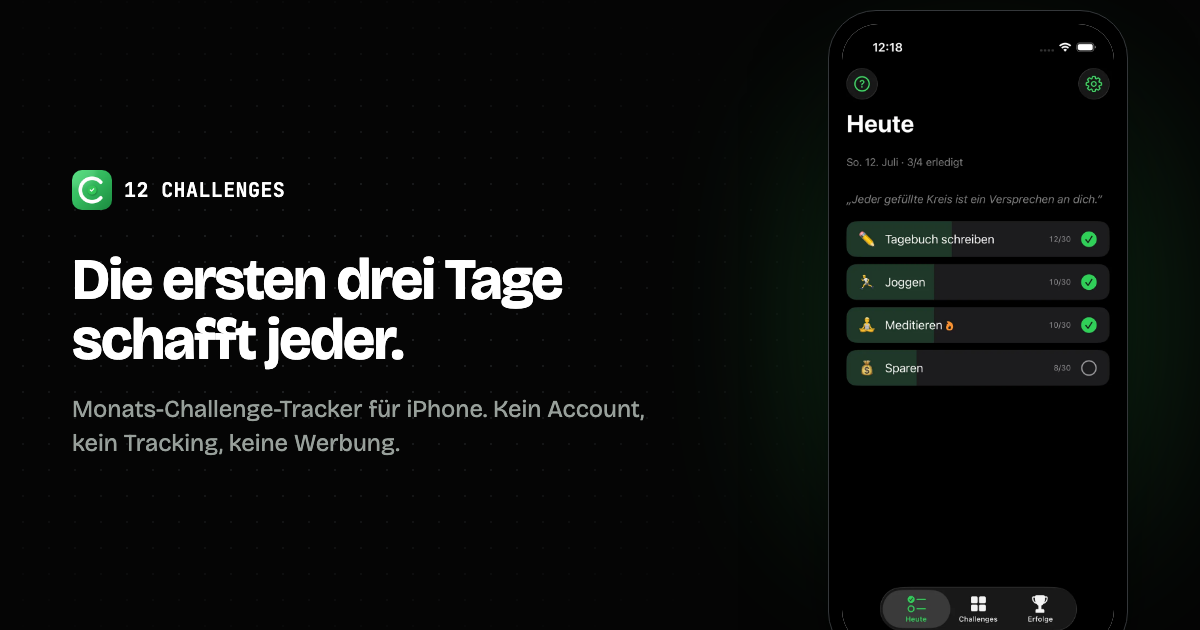
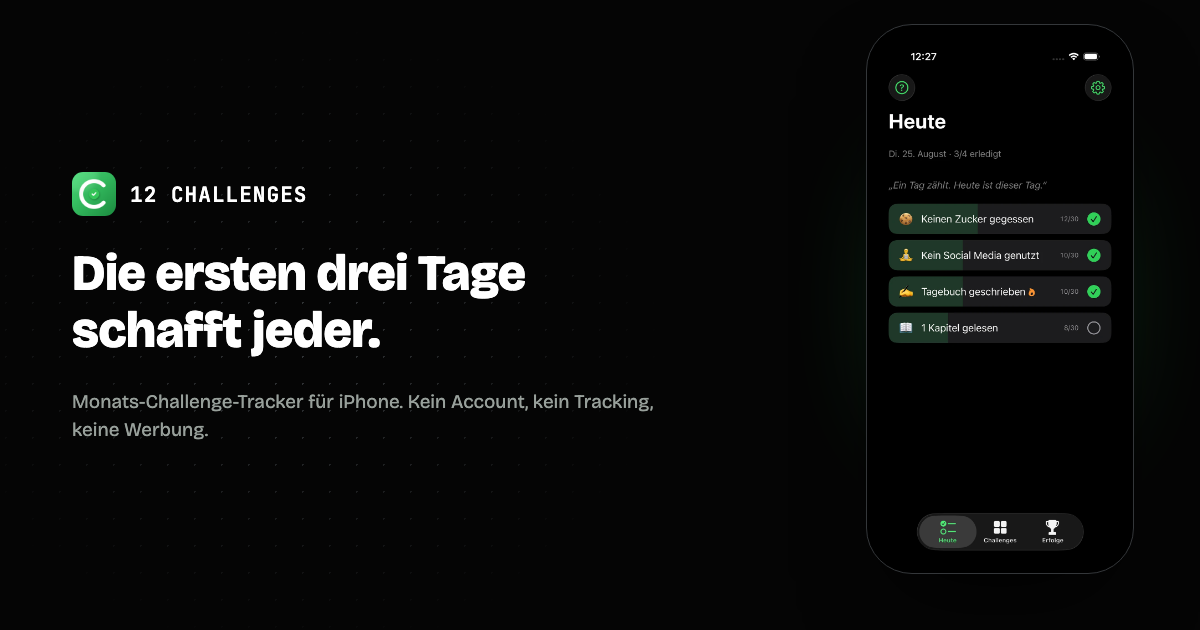
fix: alle vier OG-Bilder (DE/EN/ES/FR) einheitlich neu generiert
DE/EN liefen bisher noch mit der alten, per Hand gebauten Fake-UI und
bluteten an den Kanten. Jetzt alle vier ueber dasselbe Skript mit dem
jeweils aktuellen echten screenshot-heute-*.webp gerendert, gleiche
Groesse/Abstaende, gleicher Glow. Nebenbei zeigen DE/EN jetzt aktuelle
App-Inhalte statt der alten Challenge-Beispiele.

diff --git a/scripts/og-image/generate.py b/scripts/og-image/generate.py
@@ -17,6 +17,16 @@ ASSETS_DIR = REPO_ROOT / "assets"
 CHROME = "/Applications/Google Chrome.app/Contents/MacOS/Google Chrome"
 
 CONTENT = {
+    "de": dict(
+        HEADLINE="Die ersten drei Tage schafft jeder.",
+        SUBTEXT="Monats-Challenge-Tracker für iPhone. Kein Account, kein Tracking, keine Werbung.",
+        SCREENSHOT="screenshot-heute-de.webp",
+    ),
+    "en": dict(
+        HEADLINE="Everyone makes it three days.",
+        SUBTEXT="Monthly challenge tracker for iPhone. No account, no tracking, no ads.",
+        SCREENSHOT="screenshot-heute-en.webp",
+    ),
     "es": dict(
         HEADLINE="Los primeros tres días los aguanta cualquiera.",
         SUBTEXT="Seguimiento de challenges mensuales para iPhone. Sin cuenta, sin tracking, sin anuncios.",
@@ -27,8 +37,6 @@ CONTENT = {
         SUBTEXT="Suivi de challenges mensuels pour iPhone. Sans compte, sans tracking, sans pub.",
         SCREENSHOT="screenshot-heute-fr.webp",
     ),
-    # DE/EN reference images predate this script and weren't generated by it;
-    # add entries here only if they need to be regenerated from scratch.
 }
 
 
